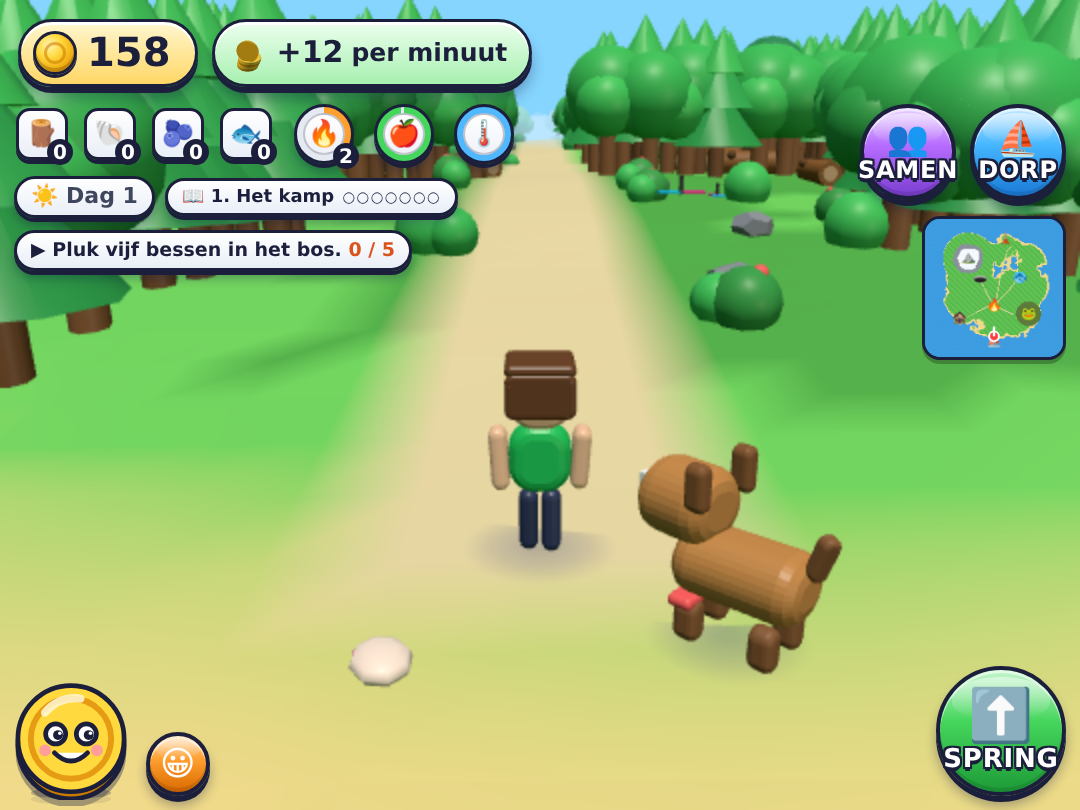
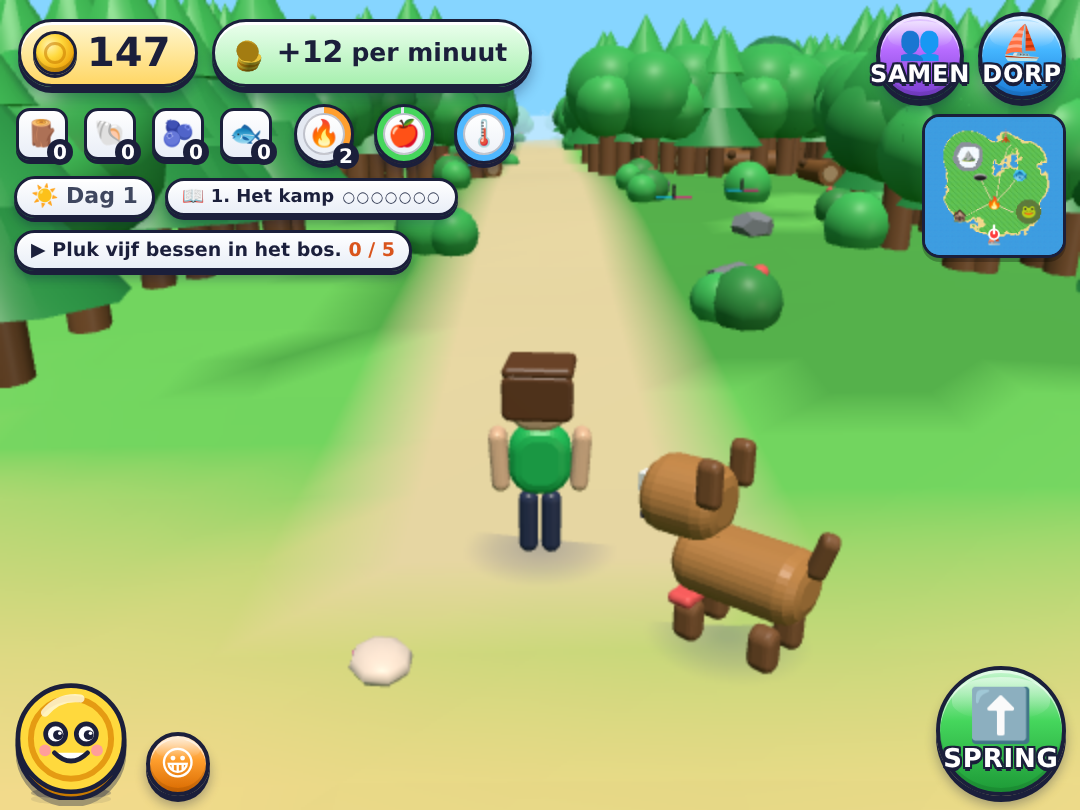
V7.5: rapport achtste ronde, README, PLAN-V7, PAPA-uitleg noemt SAMEN op het eiland
Claude-Session: https://claude.ai/code/session_01137oY3aWtKUyfJc6W7g5nv

diff --git a/docs/js/i18n.js b/docs/js/i18n.js
@@ -79,7 +79,7 @@ export const T = {
 
   samen: {
     title: 'Samen spelen',
-    help: 'Druk op KAMER: de vier plaatjes zijn de code. Op de andere iPad: START → SAMEN → de vier plaatjes tikken. Het adres hieronder is ons eigen relais; alleen aanpassen als je een ander gebruikt.',
+    help: 'Druk op KAMER: de vier plaatjes zijn de code. Op de andere iPad: START → SAMEN, of op het eiland de knop SAMEN, en dan de vier plaatjes tikken. Het adres hieronder is ons eigen relais; alleen aanpassen als je een ander gebruikt.',
     noRelay: 'Nog geen relais-adres. Vul het hierboven in.',
     idle: 'Klaar om een kamer te openen.',
     connecting: 'Verbinden…',

diff --git a/RAPPORT.md b/RAPPORT.md
@@ -2,7 +2,42 @@
 
 **Live:** https://johannes-lab-tw.github.io/muntstad/
 
-## 0. Zevende ronde: de derde iPad-test (6 september 2026)
+## 0. Achtste ronde: de hout-fout en het spel voor een zesjarige (13 en 14 september 2026)
+
+Johannes testte v7.0 met zijn zoon op 7 september: **Samen spelen werkt**, maar hout toevoegen deed het maar één stuk en
+daarna zei Muntje "Je hebt geen hout" met 38 stuks in de rugzak. Daarna de vraag: dit kan voor een ervaren gamer van
+zes nog vele malen beter qua werking en lay-out, samen met Higgsfield. Wat er in deze ronde is gebeurd, elk als eigen
+PR met CI groen op drie iPad-formaten en daarna live:
+
+1. **v7.1, de hout-fout.** Het vuur brandt in breuken. Bij 399,6 van 400 stuks rondde het spel de resterende ruimte af
+   naar nul, ging er niets in, en de enige melding daarvoor was "geen hout". Nu telt de laatste breuk als een heel stuk,
+   verdwijnt STOOK pas als het vuur echt vol is, en zegt Muntje dan "Het vuur is vol! Bewaar je hout voor vannacht."
+   Tweede fout, alleen in Samen: de gast zag het vuur van de host afgekapt op 100 stuks (maximum is 400); een
+   vreugdevuur leek daar level 4. Twee tests spelen het iPad-scenario na.
+2. **De stijlkeuze.** Zes Higgsfield-concepten (GPT Image 2.5, jouw foto als referentie); Johannes koos "het vuur als
+   held" en "rugzak en mentor", met de regel "knoppen moeten tijdens het spelen niet in de weg zitten". Besluit: de
+   UI-taal overal (ronde plaatjesknoppen met dikke rand, ringmeters, tegels, kort en met plaatjes), de wereld blijft
+   rond plastic (geen Minecraft-blokjes: regel 5 en de bouwkosten), Higgsfield-beelden zijn moodboard en geen
+   game-asset (regel 4). Zes vaste regels in PLAN-V7 §C.2: een knopvrij midden (60 % breed, 50 % hoog), één grote knop
+   per moment, vervagen bij bewegen, groeperen, niets verspringt, korte ballon.
+3. **v7.2, het eiland.** Rugzak als tegels met badge, vuur/eten/warmte als ringen, STOOK en de actieknop groot en rond
+   rechtsonder naast SPRING, ZWAAI en DANS achter één smiley, SAMEN en DORP als plaatjesknoppen in de bovenbalk, bij
+   lopen vervaagt alles behalve de actie naar 55 %, Muntje's ballon laat tikken door. Een nieuwe browsertest bewaakt de
+   regels (elke knop ≥ 64 px, geen overlap, midden vrij, smiley, dimmen).
+4. **v7.3, het dorp.** STAD (AVONTUUR als stadion, DORP rond, WERK/WINKEL/HUIS als ronde plaatjesknoppen met de
+   3D-plaatjes), WINKEL (ronde pijlen en STAD), HUIS (de vier emotes als plaatjesknoppen), KLAAR in WERK rond. Alleen
+   de WERK-scène zelf wacht op Johannes' keuze uit twee nieuwe richtingen.
+5. **v7.4, het vuur als held.** De vlam groeit per level tot bijna drie meter, het vreugdevuur is een lage brede ring in
+   plaats van een tipi die vlam en figuurtje verborg, vijf gloeiende houtblokjes boven de vlam tonen het level, "+3 🪵"
+   springt uit het vuur zelf, wegwijzers met plaatje (🌊 MEER, 🕳 GROT), een lantaarn bij de rode hut die 's nachts
+   brandt, een houtstapel en een kruk bij het kamp.
+
+Plaatjes op knoppen zijn emoji (groot en scherp op de iPad, nul bytes); de headless testbrowser heeft geen emoji-font,
+dus die beoordeel je op de iPad. Eerlijk: Claude kon de Higgsfield-beelden in de bouwsessie niet zelf bekijken (het
+downloaddomein is daar geblokkeerd); Johannes koos in de galerij en plakte de keuze in het gesprek. Nog open: de
+WERK-scène (keuze op 15 september), en de tags v7.1 t/m v7.5 (tag-push is vanuit de sessie geblokkeerd, zie PROGRESS).
+
+## 0-vorig. Zevende ronde: de derde iPad-test (6 september 2026)
 
 Johannes testte de zesde ronde in Safari op de iPad en meldde twee dingen. Allebei zijn dezelfde dag gerepareerd, getest op drie iPad-formaten en live gezet als **v7.0** (sw.js muntstad-v38, tag v7.0, CI-run 34029308120 groen op zes jobs).
 
@@ -229,6 +264,11 @@ Bekende beperkingen:
 - De Bewaar-code is lang (ongeveer 150 tekens); kopiëren naar Notities werkt het best.
 - WebKit-tests konden hier niet draaien (zie §5).
 - De beginscherm-app en Safari delen geen opslag (zie §1).
+
+Volgende versie na de achtste ronde (14 september 2026): de WERK-scène in de gekozen richting; korte mentorballonnen
+met plaatje en drie woorden (de stem zegt de rest); rijker gras en rotsen op het eiland, borstels/schuim/spatten groter
+in WERK, een paar accenten meer op de gebouwen in STAD; de SVG-iconen als de emoji op een iPad tegenvallen; de
+Higgsfield-concepten voor de winkelkaarten (grote sterren, één ronde KOOP) als Johannes die wil.
 
 Volgende versie na de zesde ronde (5 september 2026): samen een boomstam tillen; spoken die ook bij gasten stelen; NPC's en remmende auto's in het loopbare dorp, de winkel als gebouw, het huis binnenlopen; Avontuur als losse game met eigen titelscherm (docs/avontuur.html); gouden zaterdag en honderd dagopdrachten na de campagne; de gouden kist bij het standbeeld; spoken die het vuurtorenlicht stelen (veenhout); de boot tussen drie plekken; steiger met props, golven bij de palen; de uitleg op PAPA voor de tweede iPad (noemt nog alleen START → SAMEN). De rustigere HUD op het eiland is in v7.0 gedaan. Open voor Johannes: de MELD-code en de punten van zijn zoon (worden PLAN-V7).
 

diff --git a/PROGRESS.md b/PROGRESS.md
@@ -158,7 +158,8 @@ Plan: PLAN-V5.md (zes punten van de speler + open punten uit RAPPORT §7). Zelfd
 ## Run 8 (2026-09-13) — de STOOK-fout van 7 september en PLAN-V7
 - [x] V7.1 — STOOK bij een bijna vol vuur: `stokeFire` rondde de ruimte af naar 0 (399,6 van 400) en zei "geen hout" met 38 stuks in de tas; nu telt de laatste breuk als heel stuk, `reason` 'hout'/'vol', nieuwe zin `fireFull`, `canStoke()` voor de knop; gast ziet het hostvuur tot 400 (was 100). Unit 99 groen (nieuwe asserts), e2e eiland-nacht + samen groen op chromium-ipad-gen7. GAME_VERSION v7.1, sw muntstad-v39. Het per ongeluk vastgelegde bestand `indow.__muntstad = ...` (kopie van main.js) verwijderd.
 - [x] V7.1 live — PR #1 gemerged (rebase, main 1cd8280), run 34774823588 groen op zes jobs, deploy-job geslaagd 13-09 19:05 UTC. Johannes: "Jij mag hem mergen." Tag v7.1 nog te zetten op 1cd8280 (tag-push vanuit de Claude-Code-sessie geeft 403; lokaal doen: `git tag -a v7.1 1cd8280 -m v7.1 && git push origin v7.1`).
-- [ ] V7.4 — het vuur als held (in de PR): vlam groter per level (level 5 ≈ 2,7), het baken korter en het vreugdevuur een lage brede ring in plaats van een tipi over het vuur; vijf houtblokjes boven de vlammen als levelmeter (draaien naar de camera); "+3 🪵" springt uit het vuur zelf (hook.firePoint); wegwijzers met plaatje (🌊 MEER, 🕳 GROT); lantaarn bij de rode hut (licht in het donker), houtstapel en kruk bij het kamp. GAME_VERSION v7.4, sw muntstad-v42.
+- [ ] V7.5 — afronden (in voorbereiding): RAPPORT §0 achtste ronde, README, PLAN-V7 §D, screenshotgalerij, de PAPA-uitleg noemt nu ook de knop SAMEN op het eiland (open punt uit v7.0); wacht op de merge van PR #6. Johannes geeft op 15 sep de WERK-keuze.
+- [ ] V7.4 — het vuur als held (PR #6, CI loopt): vlam groter per level (level 5 ≈ 2,7), het baken korter en het vreugdevuur een lage brede ring in plaats van een tipi over het vuur; vijf houtblokjes boven de vlammen als levelmeter (draaien naar de camera); "+3 🪵" springt uit het vuur zelf (hook.firePoint); wegwijzers met plaatje (🌊 MEER, 🕳 GROT); lantaarn bij de rode hut (licht in het donker), houtstapel en kruk bij het kamp. GAME_VERSION v7.4, sw muntstad-v42.
 - [x] V7.3 — de dorpsschermen in de kit (gemerged als PR #5, 13 sep 23:31 UTC, live na run 74): STAD met AVONTUUR (stadion) en DORP als plaatjesknoppen rechts en WERK/WINKEL/HUIS als ronde plaatjesknoppen (110) met de 3D-navplaatjes; WINKEL met ronde pijlen en STAD-knop; HUIS met de vier emotes als ronde plaatjesknoppen (SPRING ⬆, VUURWERK 🎆, DANSJE 💃, SALTO 🤸) en WINKEL/STAD rond; WERK alleen KLAAR rond (de scène wacht op Johannes' keuze uit de twee nieuwe richtingen). GAME_VERSION v7.3, sw muntstad-v41.
 - [x] V7.2 — UI-kit op het eiland (gemerged als PR #4, 13 sep 22:33 UTC): `.btn-ico` (64/96/110/130), `.ring`, `.tile`; rugzak als tegels met badge, 🔥🍎🌡 als ringen; STOOK en de actieknop groot rond met plaatje rechtsonder naast SPRING; ZWAAI/DANS achter één smiley (4 s); SAMEN en DORP als ronde plaatjesknoppen rechtsboven boven de kaart; vervagen naar 55 % bij lopen; ballon op het eiland smal en zonder tikvlak. Audit-test in avontuur.spec (≥ 64 px, geen overlap, midden vrij, smiley, dimmen). ART-DIRECTION §10 bijgewerkt. Johannes over de vier herschetsen: STAD, WINKEL en HUIS goed, WERK moet anders (nieuwe richting in V7.3). GAME_VERSION v7.2, sw muntstad-v40. `scripts/shot-hud.mjs` maakt vijf HUD-screenshots.
 - [x] Stijlkeuze Johannes (13 sep, avond): "het vuur als held" + "rugzak en mentor", regel "knoppen niet in de weg", PR #2 gemerged. PLAN-V7 §C/§D herschreven: UI-taal overal, wereld blijft rond plastic (geen Minecraft-blokjes, regel 5 + kosten), iconen als inline SVG (regel 4), zes "niet in de weg"-regels, de Higgsfield-loop, vier schermen + stijlgids-blad gegenereerd (jobs 0ae6c817, c3d38fb8, d22cfc5b, 6a97783c, 3a76151f).

diff --git a/README.md b/README.md
@@ -10,6 +10,7 @@ A small iPad web game (PWA) for a 6-year-old that teaches one thing through play
 - **AVONTUUR** (PLAN-V4, September 2026) — the boat to the Avontuureiland: walk around in third person (joystick, swipe, SPRING), chop wood, pick shells and berries, fish, sell at the campfire, buy the axe/lantern/fence/tent/torches, Muntje's daily quests; a 9-minute day/night cycle with ghosts that steal in the dark, the Nachtbeer every third night and a reward at dawn; SAMEN SPELEN with up to six players through a tiny relay on Cloudflare Workers (server/relay; room code = four pictures, host runs the world).
 - **PAPA** — parent screen behind a 3-second hold + a sum: stats (town and island), conversation starters, voice/sound/music toggles, Bewaar-code (export/import), the relay address + KAMER for SAMEN SPELEN, reset.
 - **PLAN-V6** (5 September 2026, "one world, real survival") — the island five times bigger in 60 m tiles, fire levels by wood (KOOK), cold, a night counter, shadow wolves from night 5, quest chains, SAMEN on the island and WEK, a minimap, a walkable town (DORP) with a harbour and the boat (VAAR), ten maker levels, Hotel/Handelshaven/Raketbasis, show pieces and the Spaarbank (5 % a day).
+- **V7.1 – V7.4** (13–14 September 2026, PLAN-V7 "kind-eerst") — the STOOK bug at a nearly full fire (the last fraction of room now takes a whole piece; "Het vuur is vol" instead of "geen hout"; guests see the host's fire up to 400); a picture-first UI kit (`.btn-ico` round picture buttons in four sizes, `.ring` meters, `.tile` badges) on the island and the town screens, six "buttons out of the way" rules guarded by an e2e audit (free middle, one big action, dimming while walking, emotes behind one smiley); and the fire as the hero (bigger flame per level, a low ring instead of a tipi, a five-log level meter above the flame, picture signposts, a lantern, a wood pile). Concepts came from Higgsfield with the iPad photo as reference; they are a moodboard, never assets.
 - **V7.0** (6 September 2026, after the third iPad test) — rotating the iPad no longer leaves the island blue (a window resize used to pull the shared canvas into the hidden town screen), and the island HUD folds the campaign and chain cards to one line each (tap to unfold; a finished step unfolds by itself).
 - **PLAN-V5** (September 2026, from the six-year-old's own feedback) — trees that fall, a bent cave with a chamber, bats and a cave ghost, hunger and EET, fainting, the Nachthert, nights that get harder, seven gadgets and camp upgrades, a wash bay that grows with its level, a bigger town with IJssalon and Pretpark, a livelier voice and two music themes.
 

diff --git a/PLAN-V7.md b/PLAN-V7.md
@@ -128,4 +128,5 @@ game (regel 4, offline); wel bruikbaar als filmpje voor familie.
   boven het vuur, "+3 🪵" uit het vuur), kleinere nette stapel, borden met plaatjes, lantaarn bij de hut, houtstapel
   en kruk bij het kamp, rijker gras en rotsen; in WERK borstels/schuim/spatten groter; in STAD gebouwen met een
   paar accenten meer.
-- **V7.5 Afronden (een avond):** RAPPORT §0 ronde 8, README, PLAN-V7 afgevinkt, sw-versie, tag v7.5.
+- **V7.5 Afronden (14 sep, in voorbereiding):** RAPPORT §0 ronde 8, README, PLAN-V7 afgevinkt, galerij; daarna de
+  WERK-scène in de gekozen richting als V7.6.
